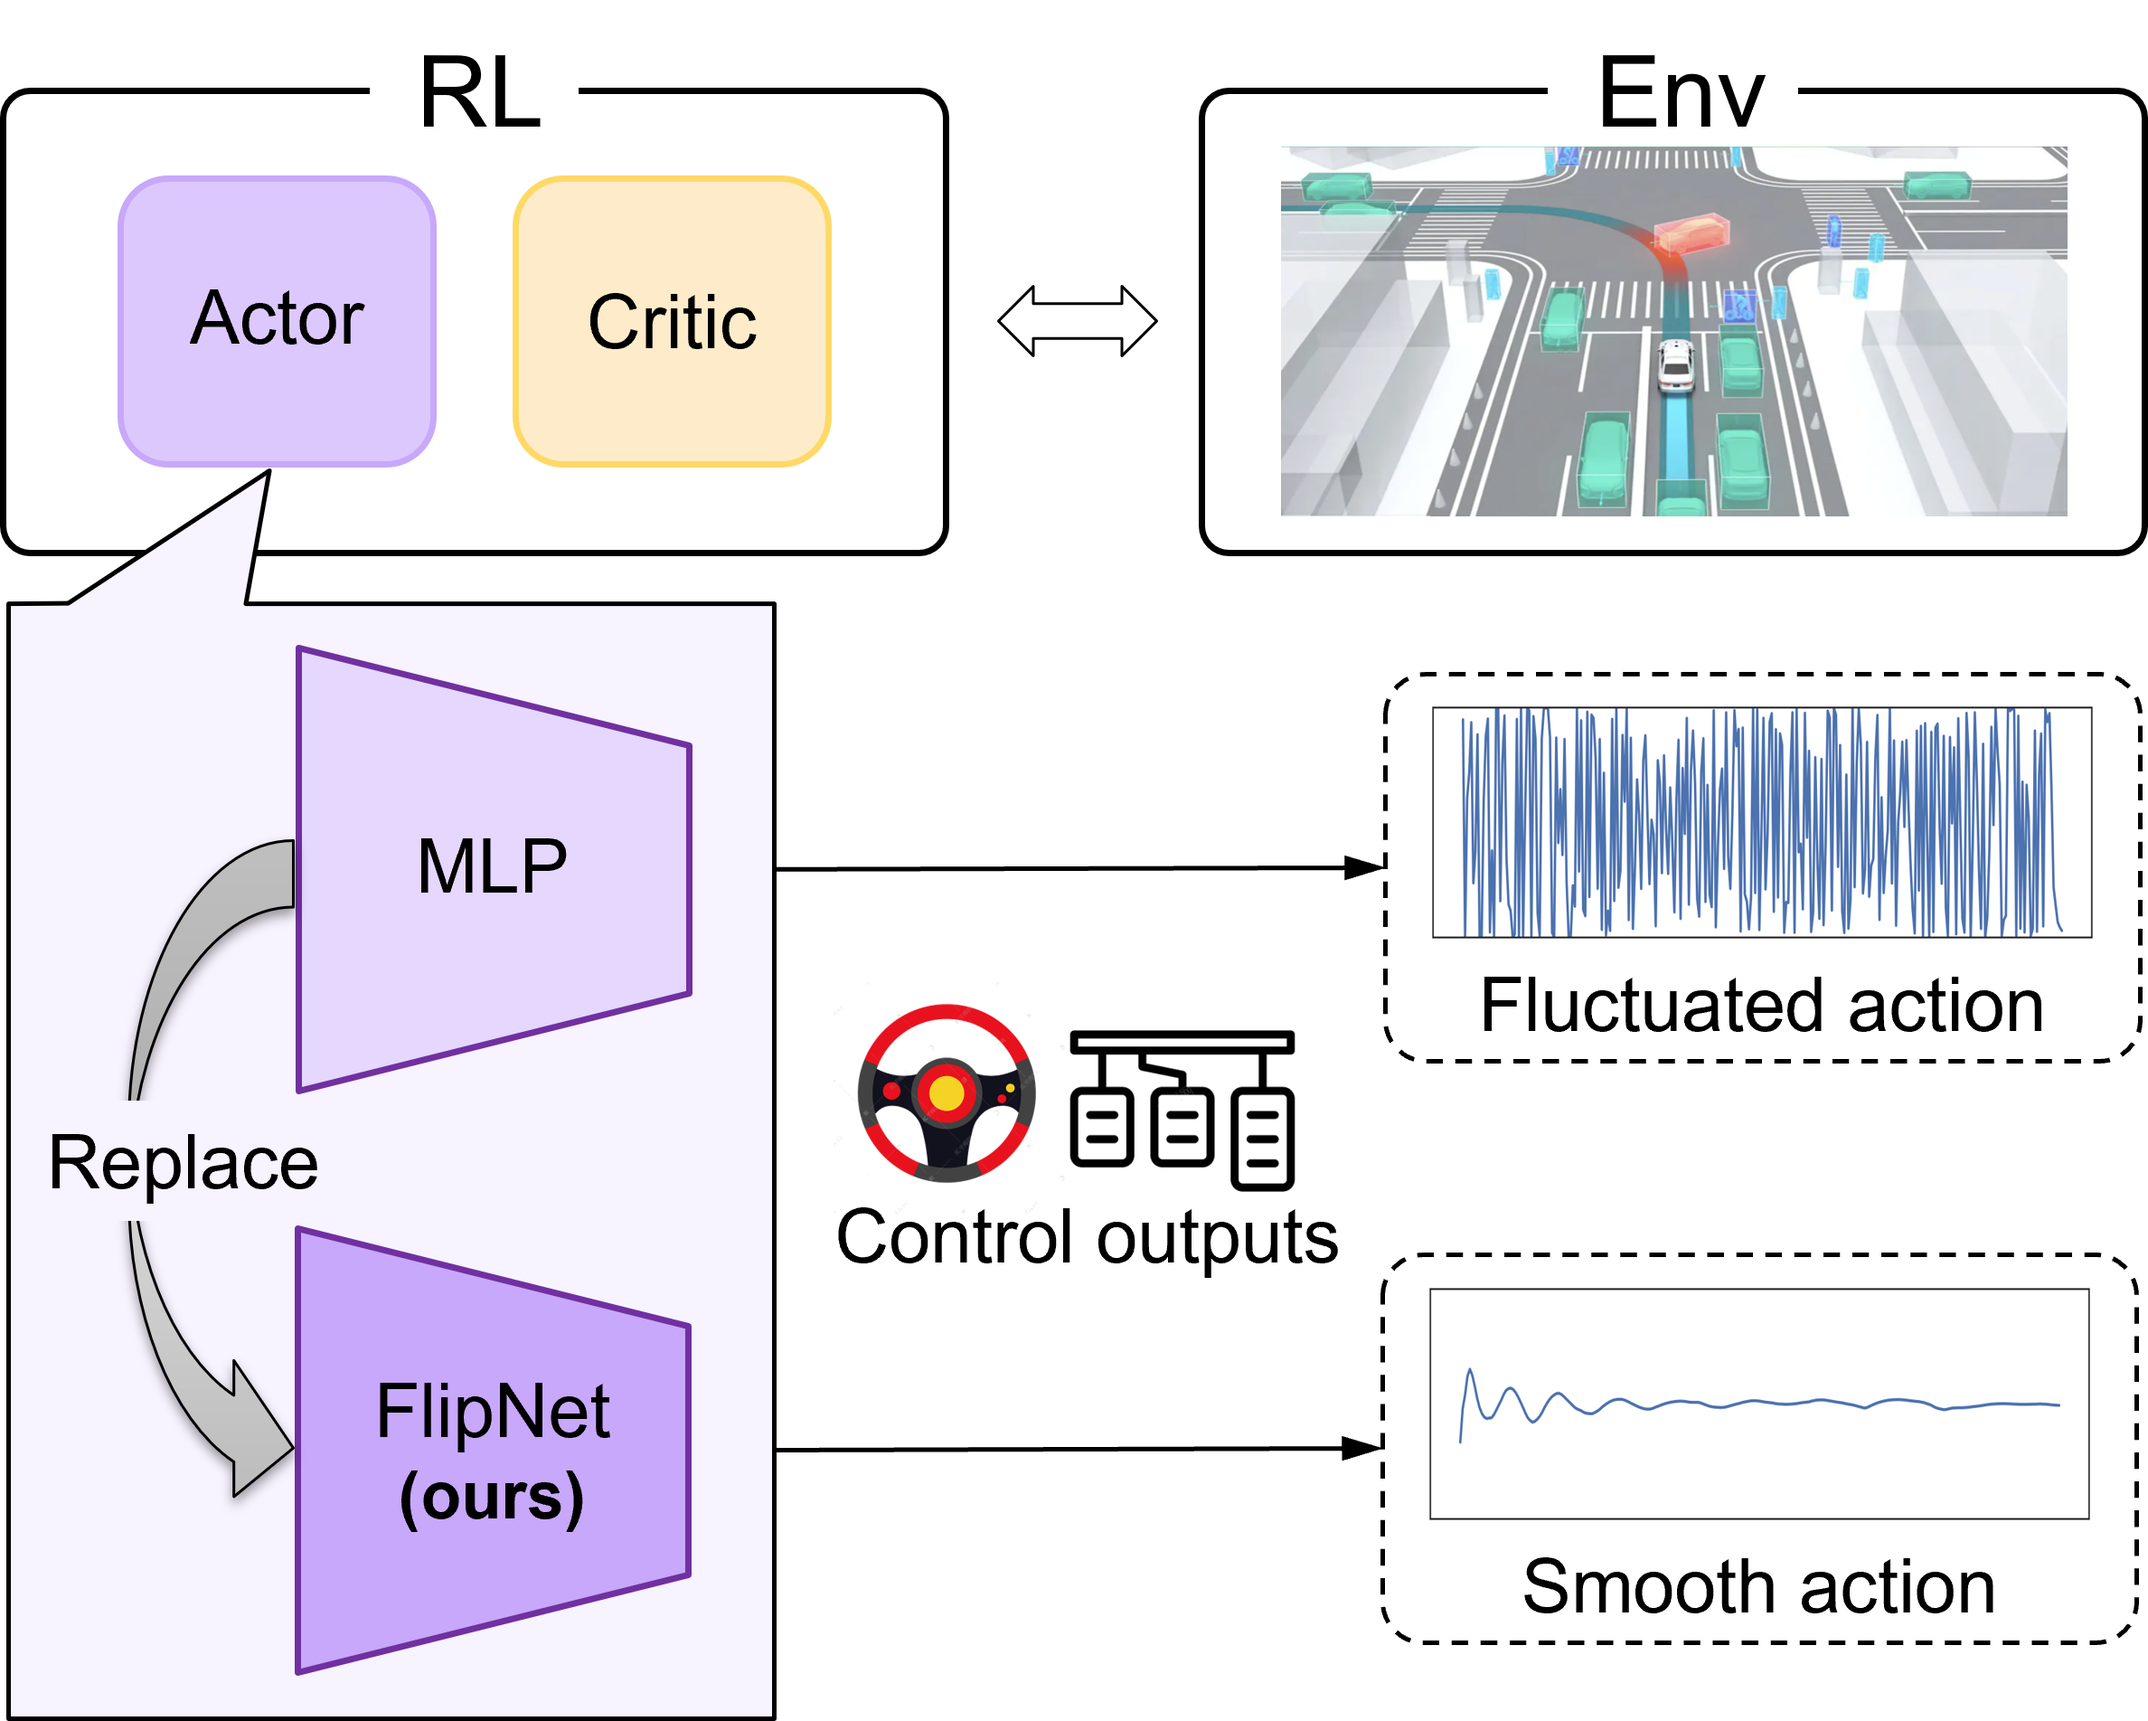
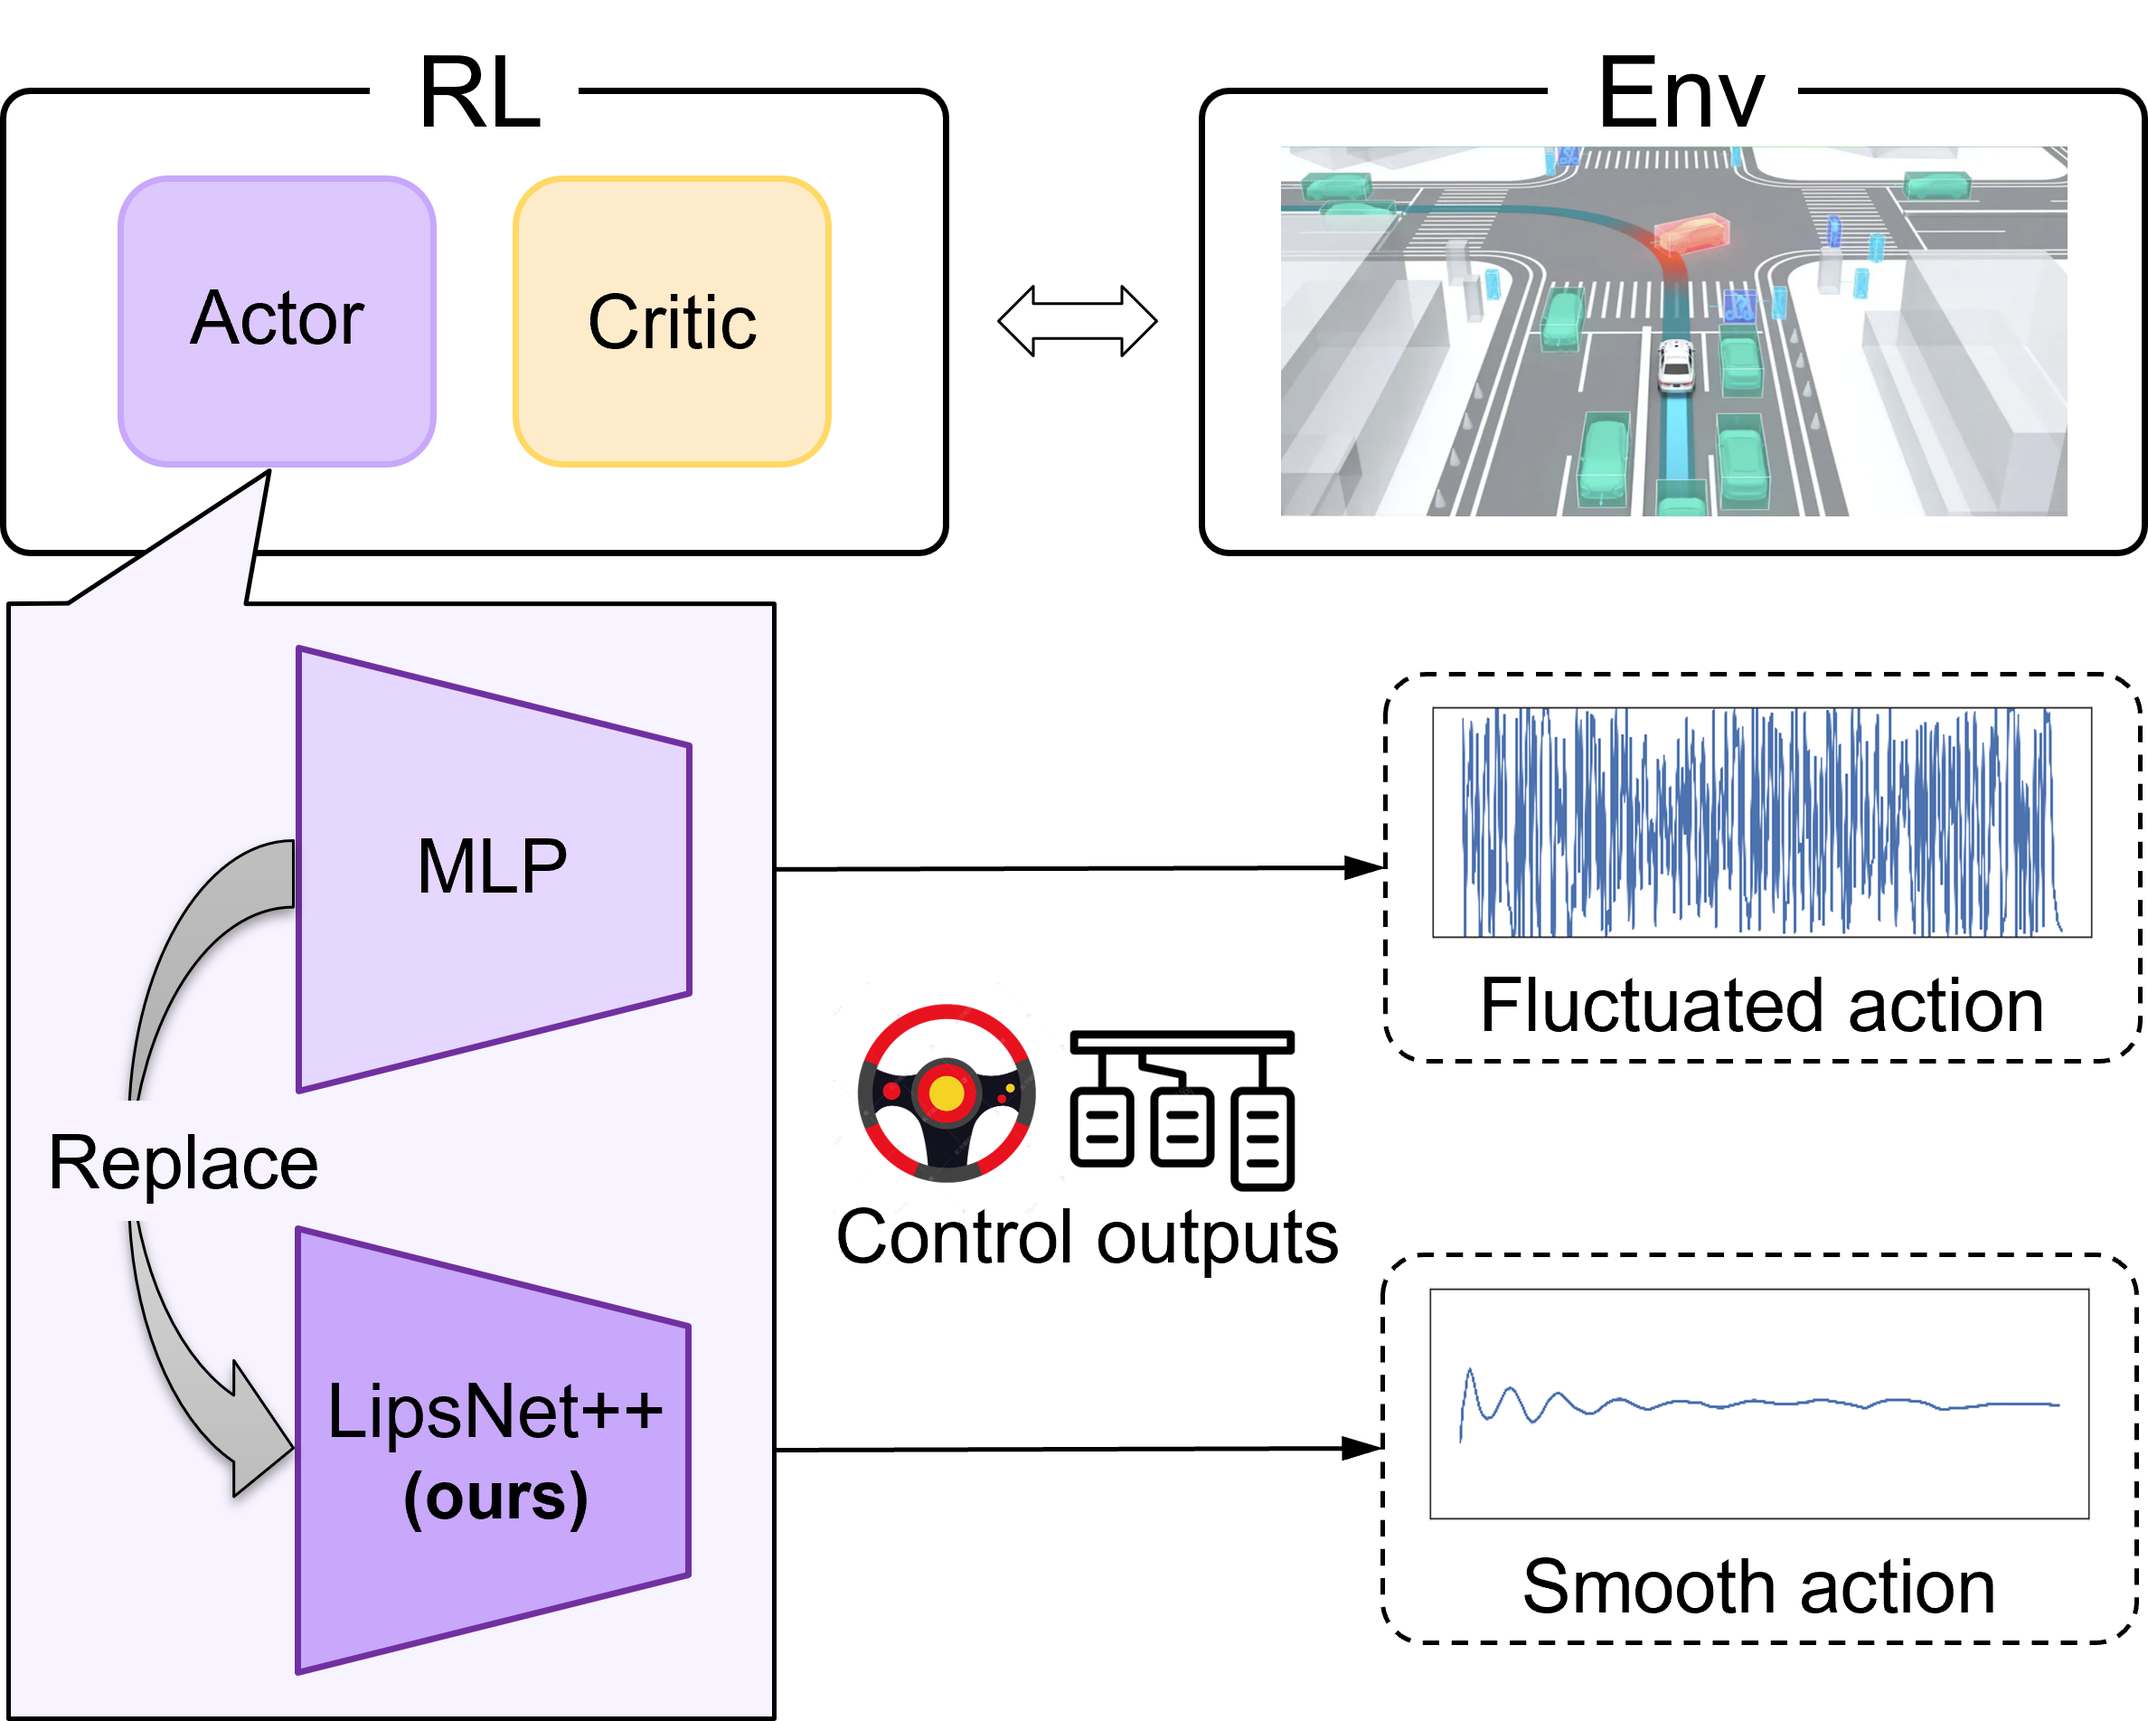
update

Changed region(s): [[0.6852, 0.403, 0.9655, 0.5581], [0.1557, 0.8061, 0.3114, 0.8991]]

diff --git a/index.html b/index.html
@@ -199,7 +199,7 @@
             The paper propose LipsNet++, a policy network incorporating a Fourier filter layer and Lipschitz controller layer. It can be used as policy network in most actor-critic RL algorithms to obtain smoother control action in real-world applications.
           </p>
           <img src="static/images/Thumbnail.png"
-            width="500"
+            width="400"
             class="center"/>
         </div>
       </div>
@@ -211,7 +211,7 @@
   <div class="container is-max-desktop">
     <div class="columns is-centered has-text-centered">
       <div class="column is-four-fifths">
-        <h2 class="title is-3">Reasons Identification of Action Fluctuation</h2>
+        <h2 class="title is-3">1. Reasons Identification of Action Fluctuation</h2>
         <div class="content has-text-justified">
           <p>
             Our paper identifies the two fundamental reasons that causes action fluctuation:
@@ -220,8 +220,15 @@
             <li>Non-smoothness of policy network</li>
             <li>Existence of observation noise</li>
           </ul>
-          Our paper proposes two techniques to address the two fundamental reasons causing action fluctuation, respectively.
 
+          <img src="static/images/reason_identify.png"
+            width="850"
+            class="center"/>
+          <br>
+          <p>
+            Our paper proposes two layers to address the above two reasons, respectively.
+          </p>
+          
           <img src="static/images/two_reasons.png"
             width="850"
             class="center"/>
@@ -237,7 +244,7 @@
   <div class="container is-max-desktop">
     <div class="columns is-centered has-text-centered">
       <div class="column is-four-fifths">
-        <h2 class="title is-3">Policy Network Structure</h2>
+        <h2 class="title is-3">2. Policy Network Structure</h2>
         <div class="content has-text-justified">
           <p>
             There are two layers incorporated in LipsNet++:
@@ -246,14 +253,17 @@
             <li>Fourier filter layer</li>
             <li>Lipschitz controller layer</li>
           </ul>
-          The two techniques respectively tackle the two fundamental reasons causing action fluctuation.
+          <p>
+            The two layers respectively tackle the two fundamental reasons causing action fluctuation.
+            These two layers function analogously to the filter and controller in classical control theory, suggesting that filtering and control capabilities can be seamlessly integrated into a single policy network.
+          </p>
 
           <img src="static/images/network_structure.png"
-            width="700"
+            width="1000"
             class="center"/>
           <br>
           LipsNet++ is applicable in almost all actor-critic RL algorithms, including DDPG, TD3, PPO, TRPO, SAC, and DSAC, etc.
-          LipsNet++ produces smooth control actions, which contributes to the applications of RL in the real world.
+          LipsNet++ produces smooth control actions, which contributes to the real-world applications of RL.
         </div>
       </div>
     </div>
@@ -301,7 +311,7 @@
   <div class="container is-max-desktop">
     <div class="columns is-centered has-text-centered">
       <div class="column is-four-fifths">
-        <h2 class="title is-3">Mini-Vehicle Driving Task</h2>
+        <h2 class="title is-3">3. Video of Mini-Vehicle Driving Task</h2>
         <div class="content has-text-justified">
           <p>
             This is a real-world application on the vehicle-robot driving task. The vehicle is controlled by the policy network, i.e. LipsNet++, trained by RL.
@@ -323,7 +333,7 @@
   <div class="container is-max-desktop">
     <div class="columns is-centered has-text-centered">
       <div class="column is-four-fifths">
-        <h2 class="title is-3">User-friendly Packaging</h2>
+        <h2 class="title is-3">4. User-friendly Packaging</h2>
         <div class="content has-text-justified">
           <p>
             The user-friendly packaging of LipsNet++ does not disturb original RL algorithm, allowing application in various RL algorithms.
@@ -331,7 +341,7 @@
             The code will be released after review.
           </p>
           <img src="static/images/packaging.png"
-            width="420"
+            width="330"
             class="center"/>
         </div>
       </div>
